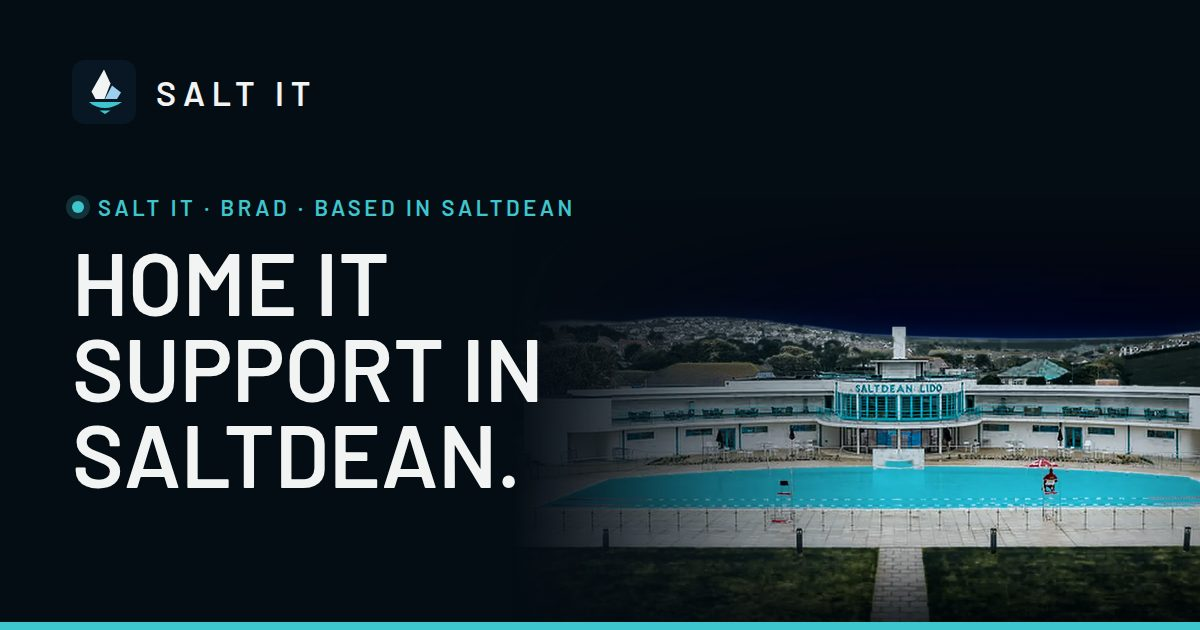
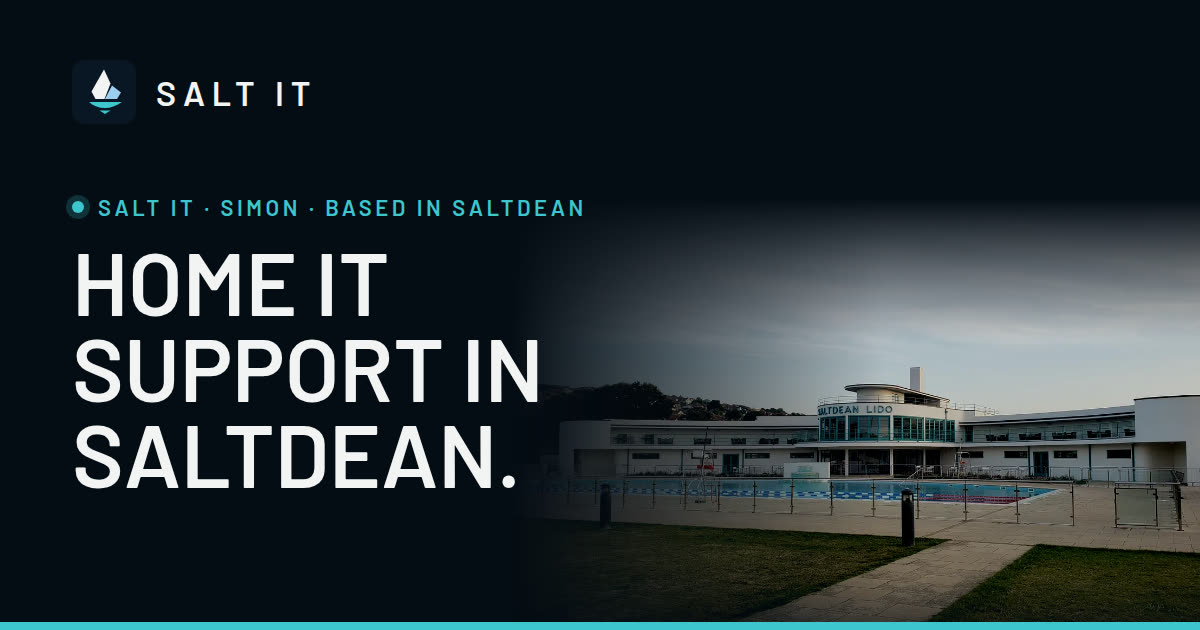
Rename user-visible Brad to Simon
The about heading, call and send buttons, aria labels, eyebrow, and Open Graph image now say Simon. The phone number and hello@saltit.co.uk are unchanged.

diff --git a/site/index.html b/site/index.html
@@ -84,7 +84,7 @@
         <a href="#areas">Areas</a>
         <a href="#contact">Contact</a>
       </nav>
-      <a class="btn btn-line btn-sm hdr-call" href="tel:+447843468904" aria-label="Call Brad on 07843 468904">
+      <a class="btn btn-line btn-sm hdr-call" href="tel:+447843468904" aria-label="Call Simon on 07843 468904">
         <svg viewBox="0 0 24 24" width="16" height="16" aria-hidden="true" focusable="false"><path fill="currentColor" d="M6.6 10.8a15.1 15.1 0 0 0 6.6 6.6l2.2-2.2a1 1 0 0 1 1-.25 11.4 11.4 0 0 0 3.6.57 1 1 0 0 1 1 1V20a1 1 0 0 1-1 1A17 17 0 0 1 3 4a1 1 0 0 1 1-1h3.5a1 1 0 0 1 1 1c0 1.25.2 2.45.57 3.57a1 1 0 0 1-.25 1z"/></svg>
         <span class="only-sm">Call</span><span class="only-lg">07843 468904</span>
       </a>
@@ -99,11 +99,11 @@
         <img src="assets/lido-hero-780m.webp" width="780" height="510" alt="" fetchpriority="high" decoding="async">
       </picture>
       <div class="wrap hero-in">
-        <p class="eyebrow"><span class="dot" aria-hidden="true"></span>Salt IT · Brad · Based in Saltdean</p>
+        <p class="eyebrow"><span class="dot" aria-hidden="true"></span>Salt IT · Simon · Based in Saltdean</p>
         <h1 id="hero-h">Home IT support in Saltdean.</h1>
         <p class="hero-sub">Wi-Fi, printers, laptops, email and scam scares — fixed at your kitchen table by someone who lives down the road.</p>
         <div class="hero-cta">
-          <a class="btn btn-primary" href="tel:+447843468904" data-hero-call aria-label="Call Brad on 07843 468904">Call Brad — 07843 468904</a>
+          <a class="btn btn-primary" href="tel:+447843468904" data-hero-call aria-label="Call Simon on 07843 468904">Call Simon — 07843 468904</a>
           <a class="btn btn-line" href="#contact">Book a home visit</a>
         </div>
         <p class="hero-price"><strong>First hour £75</strong> <span>Saltdean · Rottingdean · Peacehaven · Woodingdean</span></p>
@@ -233,11 +233,11 @@
       </div>
     </section>
 
-    <section class="sec" id="brad" aria-labelledby="brad-h">
+    <section class="sec" id="simon" aria-labelledby="simon-h">
       <div class="wrap">
         <div class="sec-head">
           <p class="idx"><span>04</span>Who you'll get</p>
-          <h2 id="brad-h">I'm Brad.</h2>
+          <h2 id="simon-h">I'm Simon.</h2>
           <p class="lead">I live in Saltdean and I do home IT support for neighbours around here — Wi-Fi, laptops, printers, email, and the awkward “I think I've been scammed” moments. I've worked in IT for more than twenty years, including years keeping shop and restaurant systems running, so I'm used to turning up, fixing it, and explaining what I did in plain English. If something's broken at home, call me — I'm usually only a few minutes down the road.</p>
         </div>
         <ul class="promises">
@@ -318,7 +318,7 @@
           <p class="idx"><span>07</span>Contact</p>
           <h2 id="contact-h">What's gone wrong?</h2>
           <p class="lead">The quickest way is to call. If I'm with a customer, leave a message and I'll ring you back as soon as I can.</p>
-          <a class="bigtel" href="tel:+447843468904" aria-label="Call Brad on 07843 468904"><span class="mini">Call Brad</span><span class="num-big">07843 468904</span></a>
+          <a class="bigtel" href="tel:+447843468904" aria-label="Call Simon on 07843 468904"><span class="mini">Call Simon</span><span class="num-big">07843 468904</span></a>
           <ul class="contact-list">
             <li><span class="mini">Email</span><a href="mailto:hello@saltit.co.uk">hello@saltit.co.uk</a></li>
             <li><span class="mini">Where</span><span>Based in Saltdean, East Sussex</span></li>
@@ -361,7 +361,7 @@
             <input id="f-hp" name="hp_field" type="text" tabindex="-1" autocomplete="off">
           </div>
           <p class="form-status" role="status" aria-live="polite" data-status></p>
-          <button class="btn btn-primary" type="submit">Send to Brad</button>
+          <button class="btn btn-primary" type="submit">Send to Simon</button>
           <p class="form-note">This comes straight to me. Prefer to talk? <a href="tel:+447843468904">Call 07843 468904</a>.</p>
         </form>
       </div>
@@ -393,7 +393,7 @@
   </footer>
 
   <nav class="callbar" aria-label="Quick contact" data-callbar>
-    <a class="btn btn-primary" href="tel:+447843468904" aria-label="Call Brad on 07843 468904">Call Brad</a>
+    <a class="btn btn-primary" href="tel:+447843468904" aria-label="Call Simon on 07843 468904">Call Simon</a>
     <a class="btn btn-line" href="#contact">Message</a>
   </nav>
 </body>

diff --git a/scripts/og-image.html b/scripts/og-image.html
@@ -35,7 +35,7 @@
 <body>
   <img class="lido" src="../site/assets/lido-hero-1440.webp" alt="">
   <div class="brand"><img src="../site/assets/mark.svg" alt="">Salt IT</div>
-  <p class="eyebrow">Salt IT · Brad · Based in Saltdean</p>
+  <p class="eyebrow">Salt IT · Simon · Based in Saltdean</p>
   <h1>Home IT support in Saltdean.</h1>
   <div class="bar"></div>
 </body>

diff --git a/README.md b/README.md
@@ -134,7 +134,7 @@ the footer. CC0 does not require attribution; the credit stays so the source is 
 
 ## Contact form
 
-`Send to Brad` posts JSON to `/api/enquiry` (same origin, so the site CSP can stay `form-action 'self'`).
+`Send to Simon` posts JSON to `/api/enquiry` (same origin, so the site CSP can stay `form-action 'self'`).
 
 | Env var | Where | What it does |
 | --- | --- | --- |
